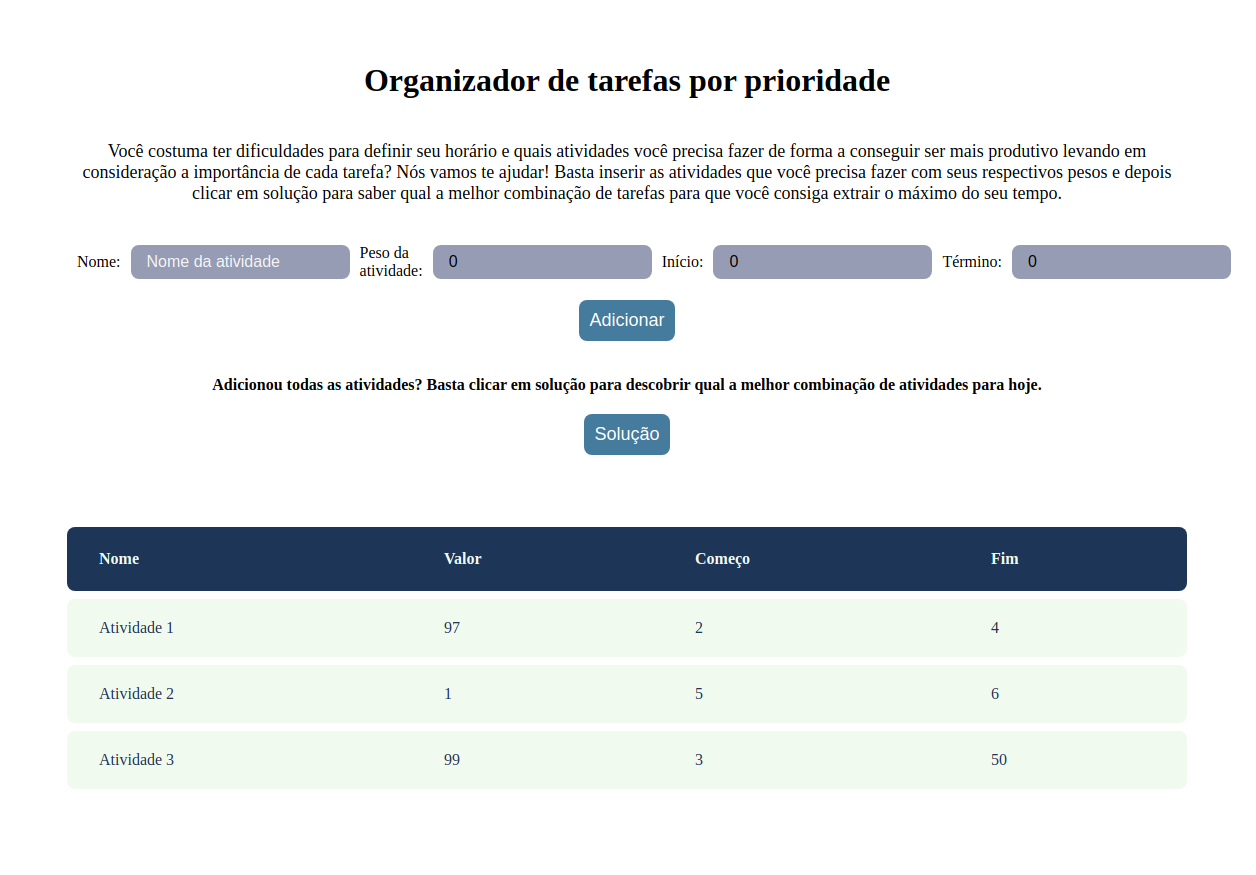
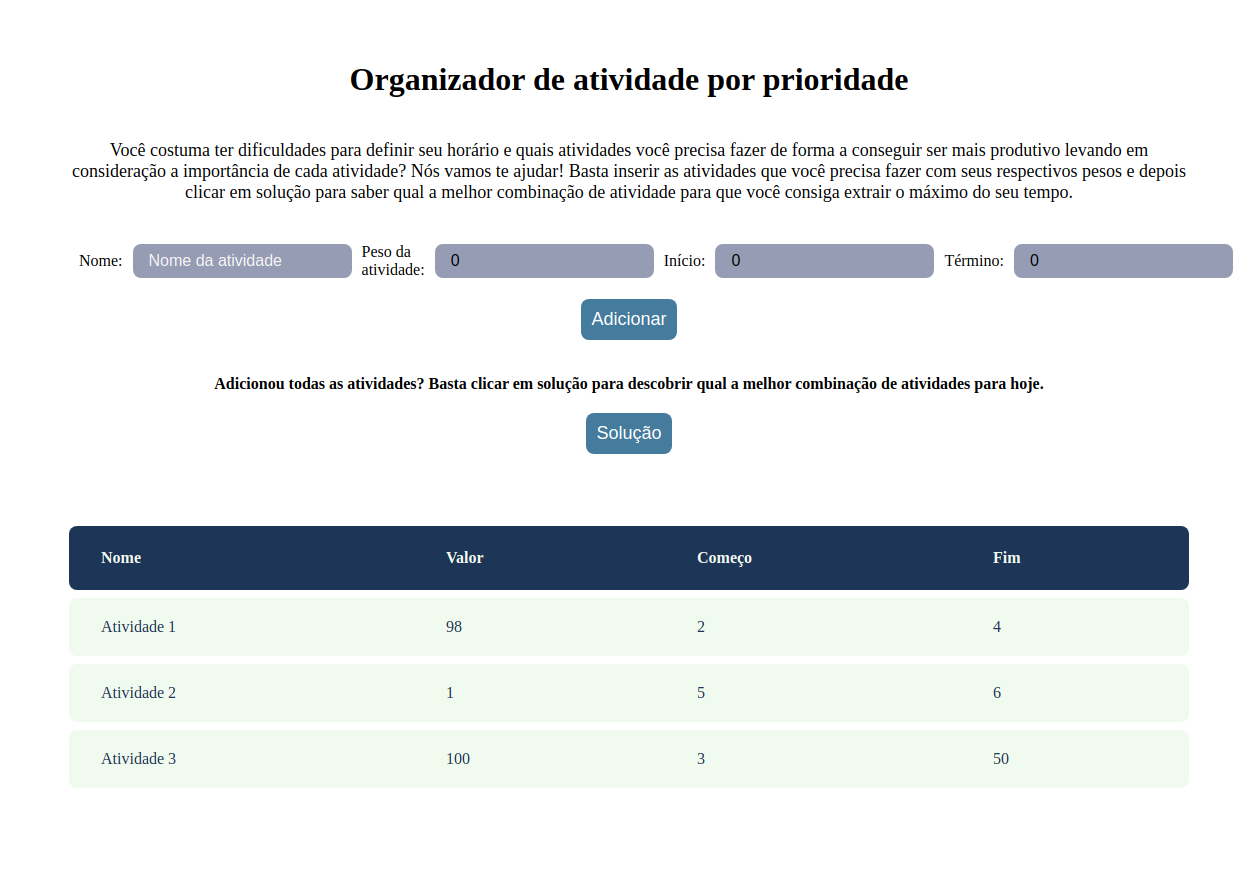
docs: Update README

diff --git a/src/App.js b/src/App.js
@@ -52,11 +52,11 @@ function App() {
     <Container>
 
     <Title>
-      Organizador de tarefas por prioridade
+      Organizador de atividade por prioridade
     </Title>
     <TextDescription>
-    Você costuma ter dificuldades para definir seu horário e quais atividades você precisa fazer de forma a conseguir ser mais produtivo levando em consideração a importância de cada tarefa?
-    Nós vamos te ajudar! Basta inserir as atividades que você precisa fazer com seus respectivos pesos e depois clicar em solução para saber qual a melhor combinação de tarefas para que você consiga extrair o máximo do seu tempo.
+    Você costuma ter dificuldades para definir seu horário e quais atividades você precisa fazer de forma a conseguir ser mais produtivo levando em consideração a importância de cada atividade?
+    Nós vamos te ajudar! Basta inserir as atividades que você precisa fazer com seus respectivos pesos e depois clicar em solução para saber qual a melhor combinação de atividade para que você consiga extrair o máximo do seu tempo.
     </TextDescription>
 
 
